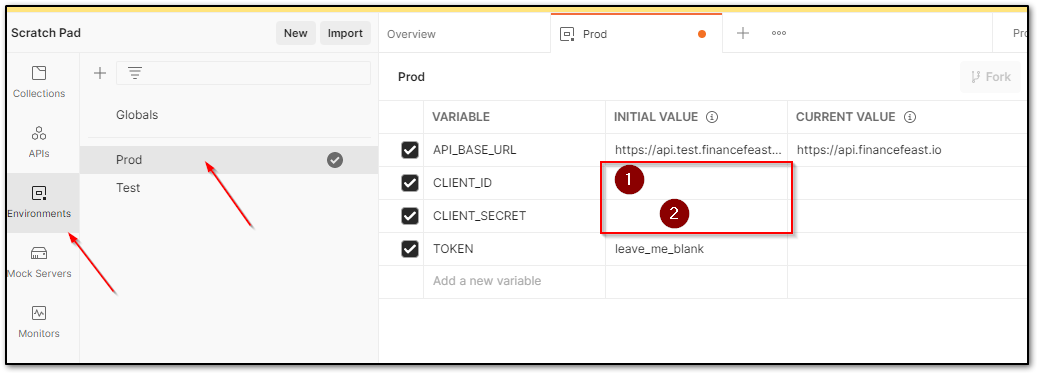
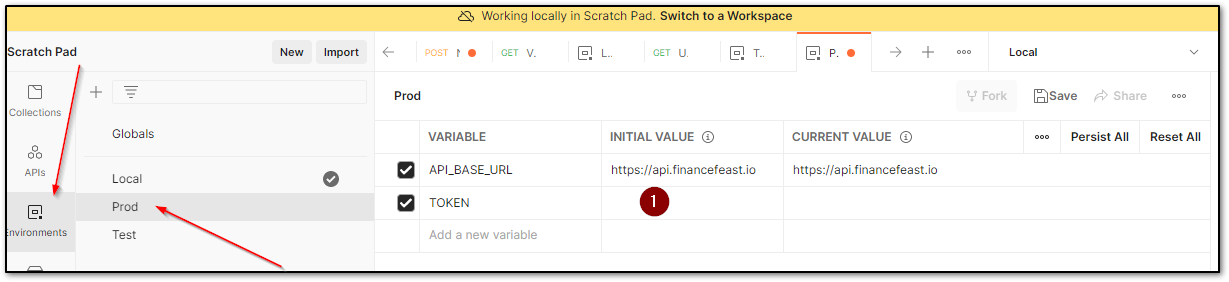
Updated examples to use token instead of client id and client secret

diff --git a/source/content/api-documentation/how-to/alternate-social-sentiment/examples/alternate-social-sentiment.py b/source/content/api-documentation/how-to/alternate-social-sentiment/examples/alternate-social-sentiment.py
@@ -1,4 +1,4 @@
 from financefeast import Rest
 
-client = Rest(client_id="your-client-id", client_secret="your-client-secret")
+client = Rest(token="API_TOKEN")
 print(client.social_sentiment(ticker='air.nz', data_from="2021-01-01").aggregation)

diff --git a/source/content/api-documentation/how-to/alternate-company-announcements/examples/alternate-company-announcements.py b/source/content/api-documentation/how-to/alternate-company-announcements/examples/alternate-company-announcements.py
@@ -1,4 +1,4 @@
 from financefeast import Rest
 
-client = Rest(client_id="your-client-id", client_secret="your-client-secret")
+client = Rest(token="API_TOKEN")
 print(client.announcement(ticker="air.nz", data_from="2021-01-01").data)

diff --git a/source/content/api-documentation/how-to/financial-cashflow/examples/financial-cashflow.py b/source/content/api-documentation/how-to/financial-cashflow/examples/financial-cashflow.py
@@ -1,4 +1,4 @@
 from financefeast import Rest
 
-client = Rest(client_id="your-client-id", client_secret="your-client-secret")
+client = Rest(token="API_TOKEN")
 print(client.cashflow(ticker='air.nz', year=2020).data)

diff --git a/source/content/api-documentation/how-to/financial-dividend/examples/financial-dividend.py b/source/content/api-documentation/how-to/financial-dividend/examples/financial-dividend.py
@@ -1,4 +1,4 @@
 from financefeast import Rest
 
-client = Rest(client_id="your-client-id", client_secret="your-client-secret")
+client = Rest(token="API_TOKEN")
 print(client.dividend(ticker='air.nz', year=2020).data)

diff --git a/source/content/api-documentation/how-to/financial-balance/examples/financial-balance.py b/source/content/api-documentation/how-to/financial-balance/examples/financial-balance.py
@@ -1,4 +1,4 @@
 from financefeast import Rest
 
-client = Rest(client_id="your-client-id", client_secret="your-client-secret")
+client = Rest(token="API_TOKEN")
 print(client.balance(ticker='air.nz', year=2020).data)

diff --git a/source/content/api-documentation/how-to/financial-income/examples/financial-income.py b/source/content/api-documentation/how-to/financial-income/examples/financial-income.py
@@ -1,4 +1,4 @@
 from financefeast import Rest
 
-client = Rest(client_id="your-client-id", client_secret="your-client-secret")
+client = Rest(token="API_TOKEN")
 print(client.income(ticker='air.nz', year=2020).data)

diff --git a/source/content/api-documentation/how-to/financial-split/examples/financial-split.py b/source/content/api-documentation/how-to/financial-split/examples/financial-split.py
@@ -1,4 +1,4 @@
 from financefeast import Rest
 
-client = Rest(client_id="your-client-id", client_secret="your-client-secret")
+client = Rest(token="API_TOKEN")
 print(client.split(ticker='air.nz', year=2020).data)

diff --git a/source/content/api-documentation/how-to/alternate-consumer-price-index/examples/alternate-consumer-price-index.py b/source/content/api-documentation/how-to/alternate-consumer-price-index/examples/alternate-consumer-price-index.py
@@ -1,4 +1,4 @@
 from financefeast import Rest
 
-client = Rest(client_id="your-client-id", client_secret="your-client-secret")
+client = Rest(token="API_TOKEN")
 print(client.cpi(data_from="1990-01-01").data)

diff --git a/source/content/api-documentation/how-to/ta-stochastic/examples/ta-stochastic.py b/source/content/api-documentation/how-to/ta-stochastic/examples/ta-stochastic.py
@@ -1,4 +1,4 @@
 from financefeast import Rest
 
-client = Rest(client_id="your-client-id", client_secret="your-client-secret")
+client = Rest(token="API_TOKEN")
 print(client.stochastic(ticker='air.nz').data)

diff --git a/source/content/api-documentation/how-to/ta-bollinger/examples/ta-bollinger.py b/source/content/api-documentation/how-to/ta-bollinger/examples/ta-bollinger.py
@@ -1,4 +1,4 @@
 from financefeast import Rest
 
-client = Rest(client_id="your-client-id", client_secret="your-client-secret")
+client = Rest(token="API_TOKEN")
 print(client.bollinger(ticker='air.nz').data)

diff --git a/source/content/api-documentation/how-to/coredata-intraday/examples/coredata-intraday.py b/source/content/api-documentation/how-to/coredata-intraday/examples/coredata-intraday.py
@@ -1,4 +1,4 @@
 from financefeast import Rest
 
-client = Rest(client_id="your-client-id", client_secret="your-client-secret")
+client = Rest(token="API_TOKEN")
 print(client.intraday(ticker='air.nz').data)

diff --git a/source/content/api-documentation/how-to/info-ticker-search/examples/info-ticker-search.py b/source/content/api-documentation/how-to/info-ticker-search/examples/info-ticker-search.py
@@ -1,4 +1,4 @@
 from financefeast import Rest
 
-client = Rest(client_id="your-client-id", client_secret="your-client-secret")
+client = Rest(token="API_TOKEN")
 print(client.ticker(exchange='nzx').data)
